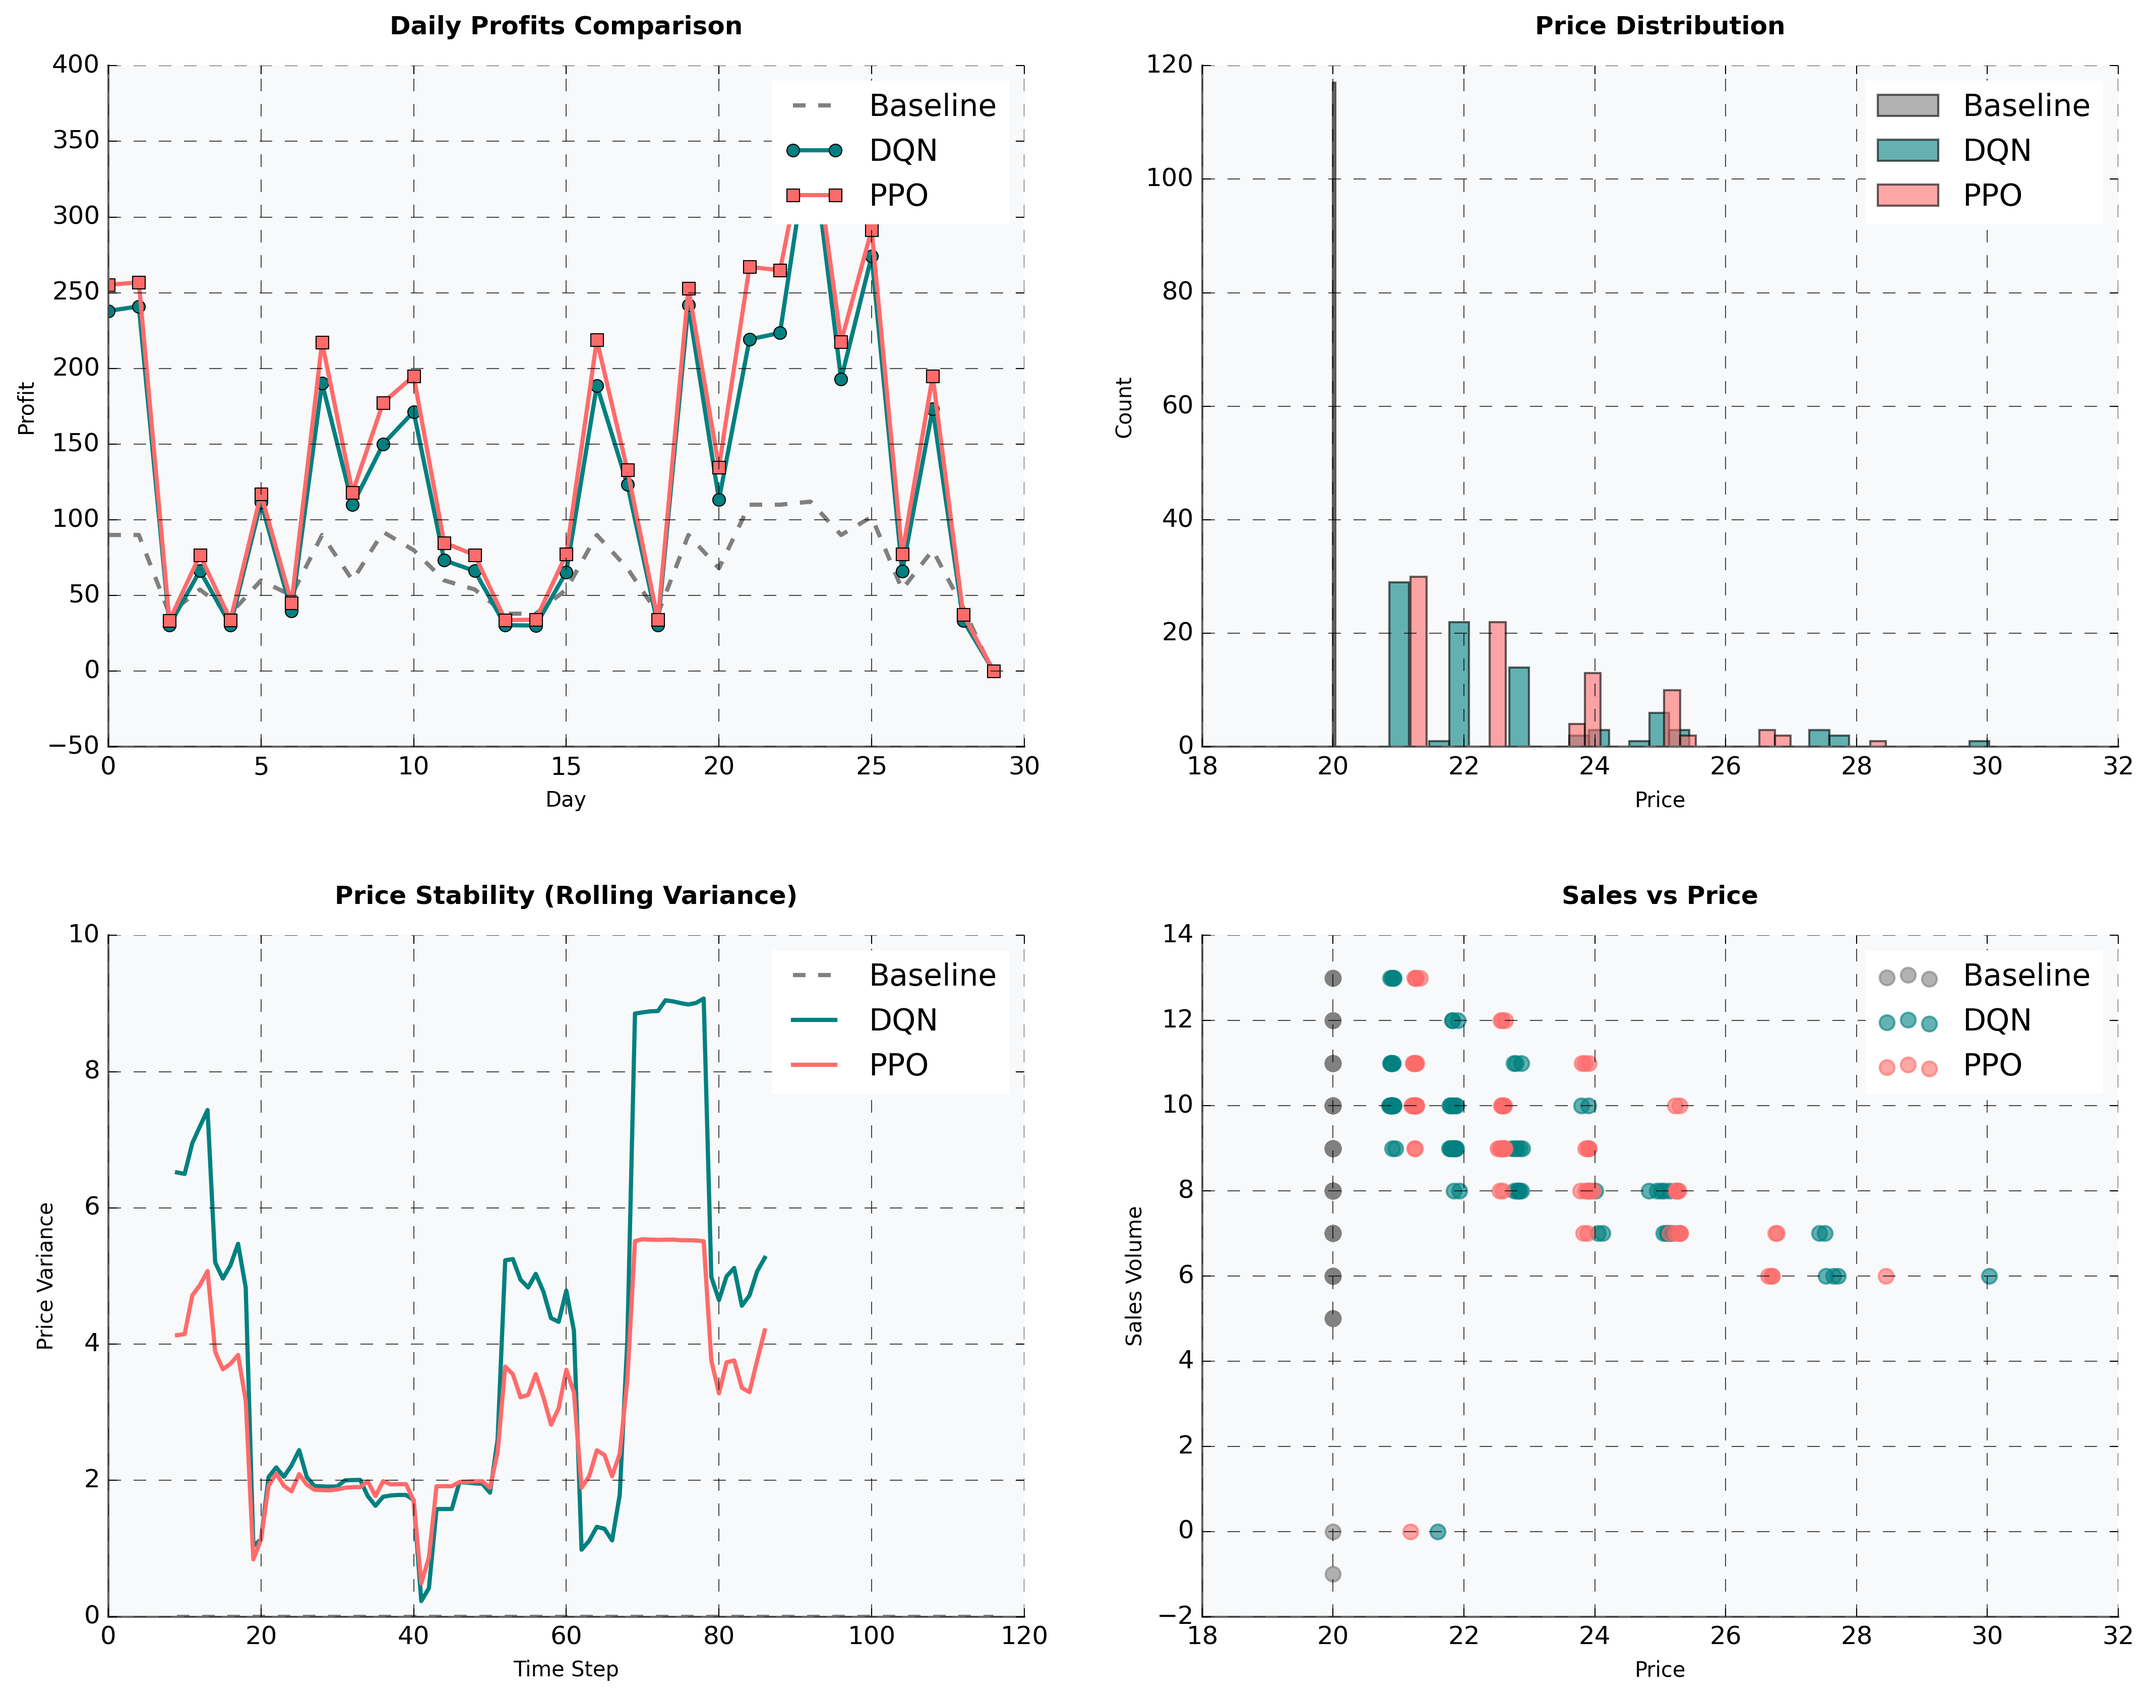
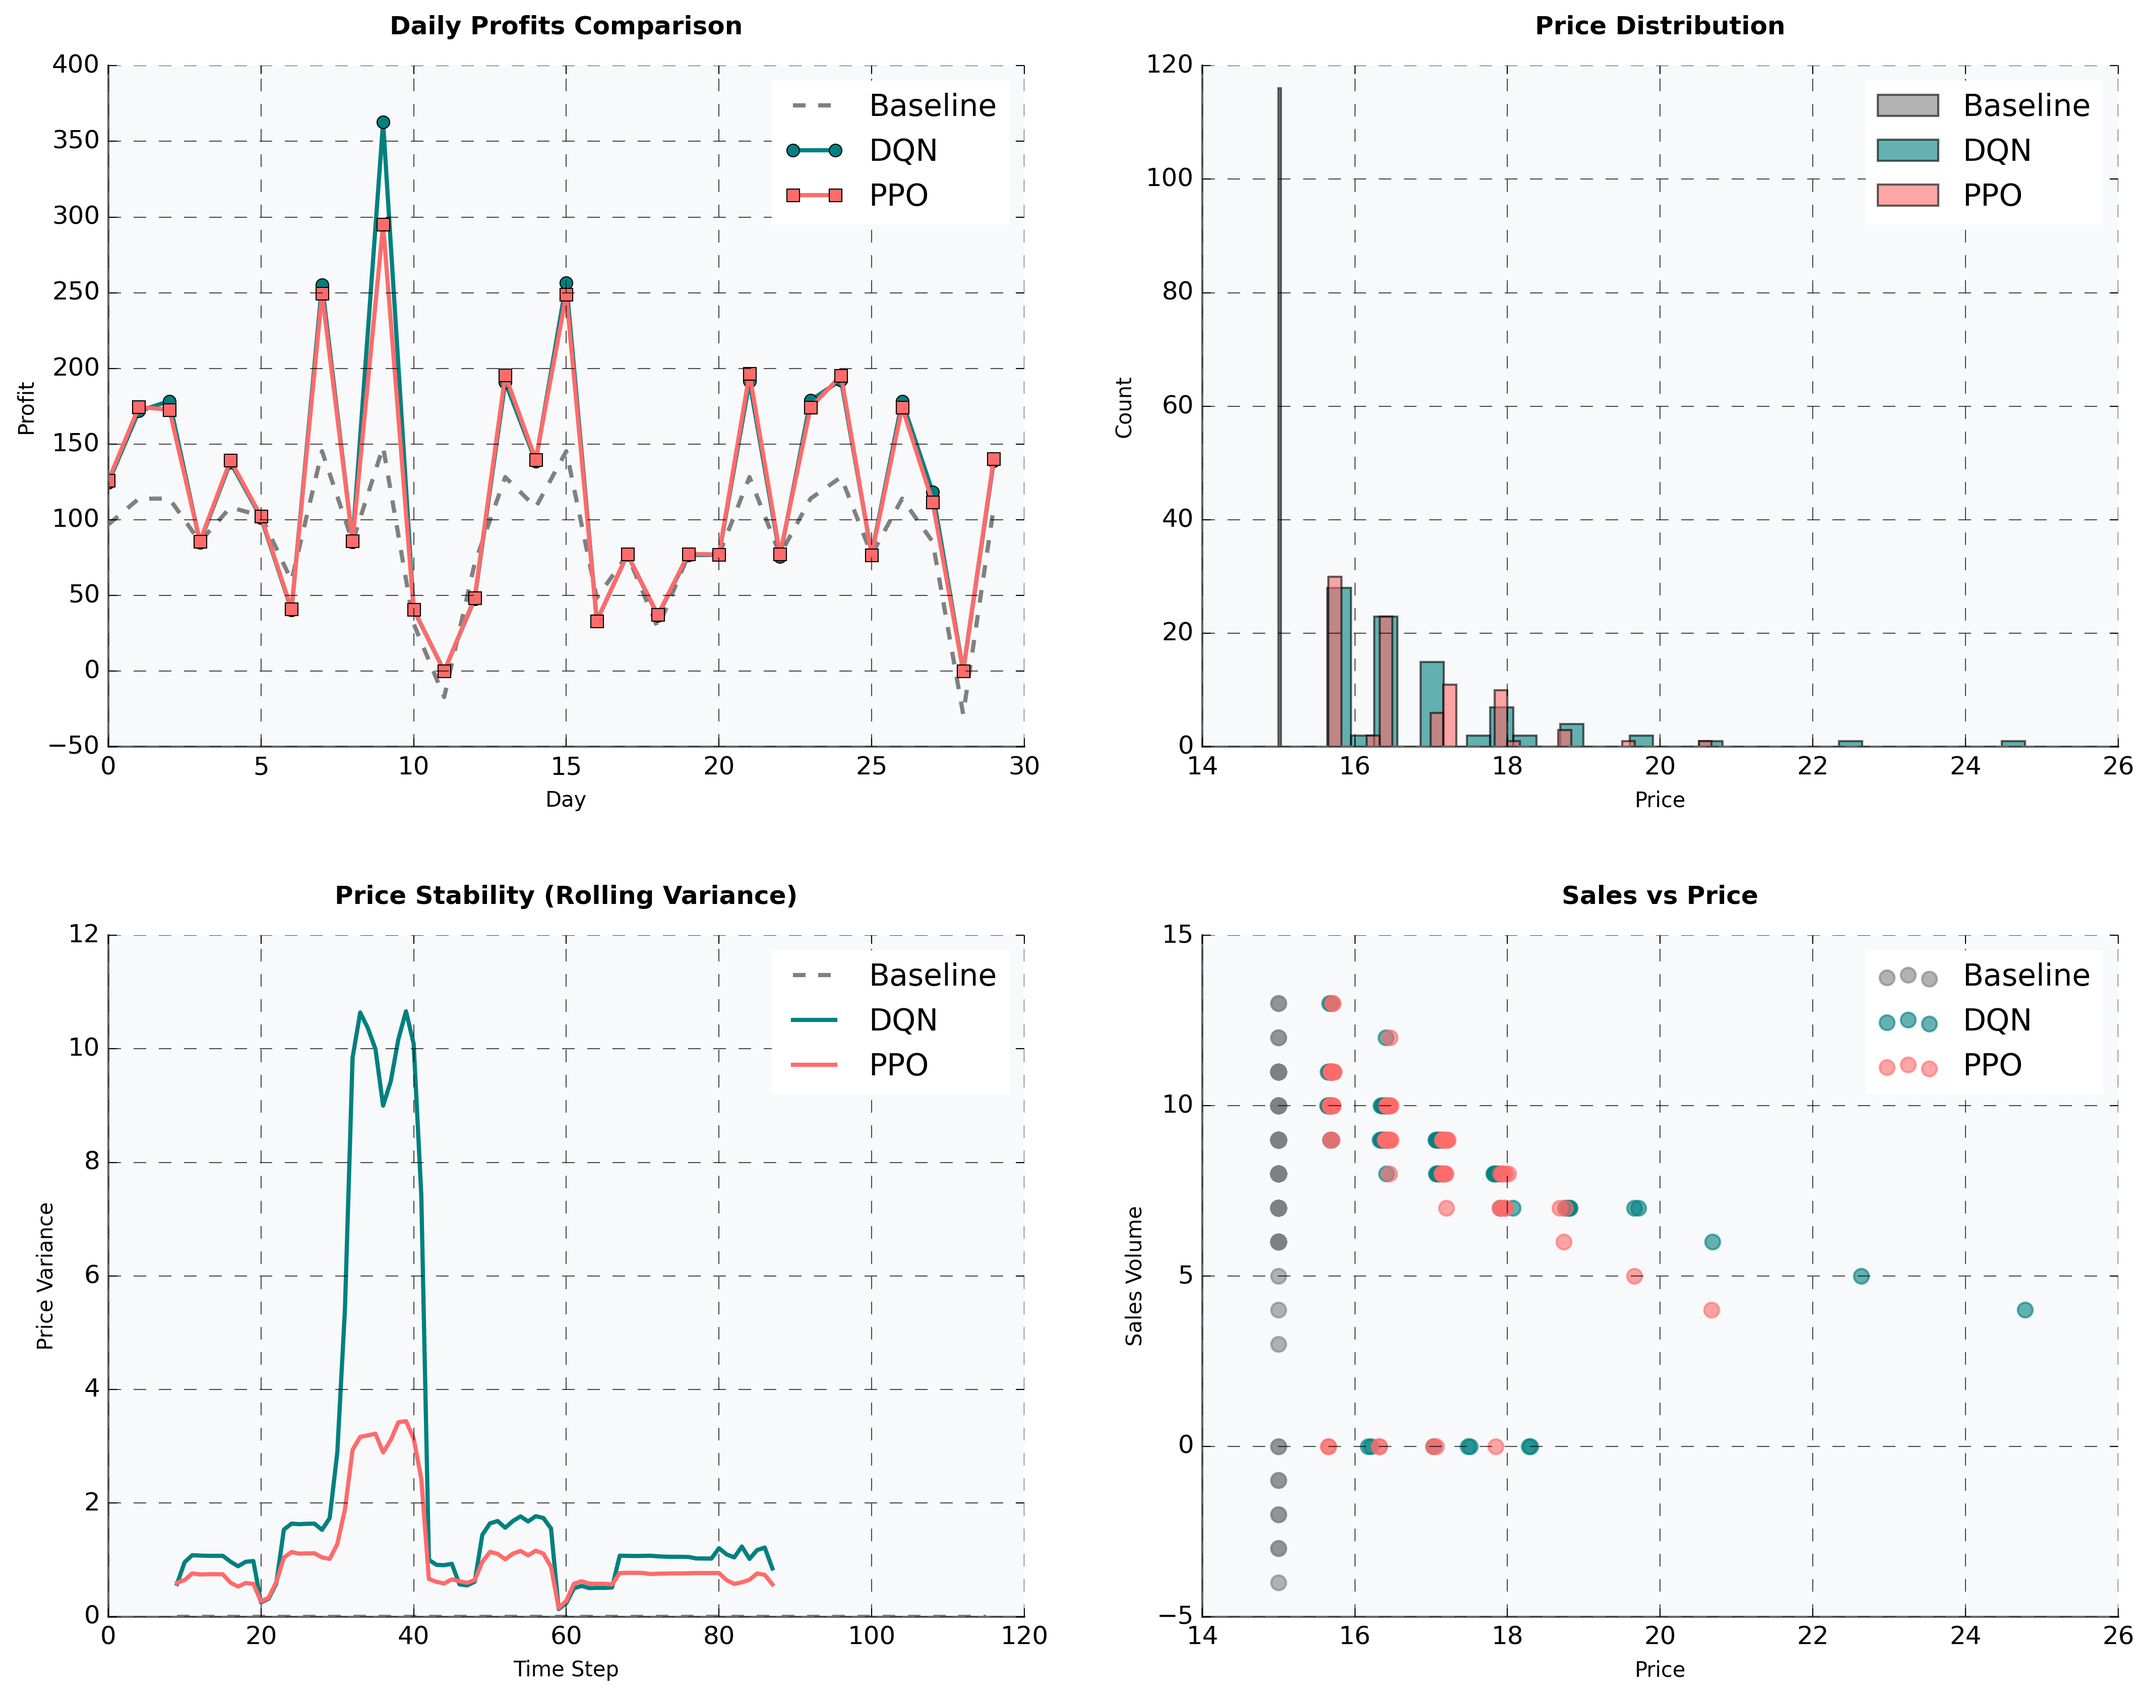
Generated full comparative analysis for all items across entire year

diff --git a/dynamic_pricing_agents/analysis/analysis.py b/dynamic_pricing_agents/analysis/analysis.py
@@ -4,6 +4,8 @@ import matplotlib.pyplot as plt
 from stable_baselines3 import DQN, PPO
 from datetime import datetime, timedelta
 
+from tqdm import tqdm
+
 from dynamic_pricing_agents.DQN_agent.dqn import DynamicPricingEnvDQN
 from dynamic_pricing_agents.PPO_agent.ppo import DynamicPricingEnv
 
@@ -309,11 +311,170 @@ def run_comparative_analysis(item_id, date_range, dqn_model_path, ppo_model_path
     return results
 
 
-if __name__ == "__main__":
+def run_full_comparative_analysis(
+        dqn_model_path,
+        ppo_model_path,
+        data_path,
+        item_prices_path,
+        output_path="full_analysis_results.csv",
+        start_date=None,
+        end_date=None
+):
+    """
+    Run comparative analysis for all items over a full year period.
+
+    Parameters:
+    -----------
+    dqn_model_path : str
+        Path to the trained DQN model
+    ppo_model_path : str
+        Path to the trained PPO model
+    data_path : str
+        Path to the full dataset CSV
+    item_prices_path : str
+        Path to the cleaned item prices CSV
+    output_path : str
+        Path where to save the results CSV
+    start_date : datetime, optional
+        Start date for analysis (defaults to Jan 1, 2022)
+    end_date : datetime, optional
+        End date for analysis (defaults to Dec 31, 2022)
+
+    Returns:
+    --------
+    tuple
+        (item_metrics_df, overall_metrics_dict)
+    """
+    # Set default dates if not provided
+    if start_date is None:
+        start_date = datetime(2022, 1, 1)
+    if end_date is None:
+        end_date = datetime(2022, 12, 31)
+
+    # Generate date range
+    date_range = [start_date + timedelta(days=x) for x in range((end_date - start_date).days + 1)]
+
+    # Load item information
+    item_info = pd.read_csv(item_prices_path)
+
+    # Initialize results storage
+    all_items_results = []
+    overall_metrics = {
+        'total_baseline_profit': 0,
+        'total_dqn_profit': 0,
+        'total_ppo_profit': 0,
+        'avg_baseline_price_variance': [],
+        'avg_dqn_price_variance': [],
+        'avg_ppo_price_variance': []
+    }
+
+    # Process each item
+    for _, item_row in tqdm(item_info.iterrows(), total=len(item_info), desc="Processing items"):
+        item_id = item_row['Item']
+        item_name = item_row['Item Name'] if 'Item Name' in item_row else f"Item {item_id}"
+
+        try:
+            # Calculate baseline performance
+            baseline_results = calculate_baseline_performance(
+                data_path,
+                item_info,
+                item_id,
+                date_range
+            )
+
+            # Run comparative analysis
+            results = run_comparative_analysis(
+                item_id=item_id,
+                date_range=date_range,
+                dqn_model_path=dqn_model_path,
+                ppo_model_path=ppo_model_path,
+                data_path=data_path
+            )
+
+            # Calculate metrics for this item
+            baseline_profit = sum(baseline_results['profits'])
+            dqn_profit = sum(results['dqn']['profits'])
+            ppo_profit = sum(results['ppo']['profits'])
+
+            baseline_price_var = np.var(baseline_results['prices'])
+            dqn_price_var = np.var(results['dqn']['prices'])
+            ppo_price_var = np.var(results['ppo']['prices'])
+
+            # Calculate profit increases
+            dqn_profit_increase = (
+                        (dqn_profit - baseline_profit) / baseline_profit * 100) if baseline_profit != 0 else 0
+            ppo_profit_increase = (
+                        (ppo_profit - baseline_profit) / baseline_profit * 100) if baseline_profit != 0 else 0
+
+            # Store results for this item
+            item_results = {
+                'item_id': item_id,
+                'item_name': item_name,
+                'baseline_profit': baseline_profit,
+                'dqn_profit': dqn_profit,
+                'ppo_profit': ppo_profit,
+                'dqn_profit_increase_pct': dqn_profit_increase,
+                'ppo_profit_increase_pct': ppo_profit_increase,
+                'baseline_price_variance': baseline_price_var,
+                'dqn_price_variance': dqn_price_var,
+                'ppo_price_variance': ppo_price_var
+            }
+
+            all_items_results.append(item_results)
+
+            # Update overall metrics
+            overall_metrics['total_baseline_profit'] += baseline_profit
+            overall_metrics['total_dqn_profit'] += dqn_profit
+            overall_metrics['total_ppo_profit'] += ppo_profit
+            overall_metrics['avg_baseline_price_variance'].append(baseline_price_var)
+            overall_metrics['avg_dqn_price_variance'].append(dqn_price_var)
+            overall_metrics['avg_ppo_price_variance'].append(ppo_price_var)
+
+        except Exception as e:
+            print(f"Error processing item {item_id}: {str(e)}")
+            continue
+
+    # Create DataFrame with all results
+    results_df = pd.DataFrame(all_items_results)
+
+    # Calculate overall averages
+    overall_metrics['avg_baseline_price_variance'] = np.mean(overall_metrics['avg_baseline_price_variance'])
+    overall_metrics['avg_dqn_price_variance'] = np.mean(overall_metrics['avg_dqn_price_variance'])
+    overall_metrics['avg_ppo_price_variance'] = np.mean(overall_metrics['avg_ppo_price_variance'])
+
+    # Add overall profit increases
+    overall_metrics['total_dqn_profit_increase_pct'] = (
+            (overall_metrics['total_dqn_profit'] - overall_metrics['total_baseline_profit']) /
+            overall_metrics['total_baseline_profit'] * 100
+    )
+    overall_metrics['total_ppo_profit_increase_pct'] = (
+            (overall_metrics['total_ppo_profit'] - overall_metrics['total_baseline_profit']) /
+            overall_metrics['total_baseline_profit'] * 100
+    )
+
+    # Save results to CSV
+    results_df.to_csv(output_path, index=False)
+
+    print("\nAnalysis Complete!")
+    print(f"\nOverall Metrics:")
+    print(f"Total Baseline Profit: ${overall_metrics['total_baseline_profit']:,.2f}")
+    print(
+        f"Total DQN Profit: ${overall_metrics['total_dqn_profit']:,.2f} ({overall_metrics['total_dqn_profit_increase_pct']:.2f}% increase)")
+    print(
+        f"Total PPO Profit: ${overall_metrics['total_ppo_profit']:,.2f} ({overall_metrics['total_ppo_profit_increase_pct']:.2f}% increase)")
+    print(f"\nAverage Price Variance:")
+    print(f"Baseline: {overall_metrics['avg_baseline_price_variance']:.2f}")
+    print(f"DQN: {overall_metrics['avg_dqn_price_variance']:.2f}")
+    print(f"PPO: {overall_metrics['avg_ppo_price_variance']:.2f}")
+
+    return results_df, overall_metrics
+
+
+def run_single_item_analysis(item_id):
     # Example date and item
-    item_id = 105  # Samosas
-    start_date = datetime(2022, 7, 1)
-    date_range = [start_date + timedelta(days=x) for x in range(30)]  # One month analysis
+    item_id = 106  # Samosas
+    start_date = datetime(2022, 1, 1)
+    date_range = [start_date + timedelta(days=x) for x in range(365)]  # One month analysis
 
     # Load item info for baseline calculation
     item_info = pd.read_csv('../data_cleaning/ItemPrices_cleaned.csv')
@@ -343,7 +504,6 @@ if __name__ == "__main__":
     print("\nCalculating performance metrics...")
     metrics_df = calculate_performance_metrics(results, baseline_results)
 
-    # Print summary statistics
     print("\nPerformance Metrics Summary:")
     print(f"\nTotal Profits:")
     print(f"Baseline: ${metrics_df.loc['total_profit', 'Baseline']:,.2f}")
@@ -358,5 +518,12 @@ if __name__ == "__main__":
     print(f"PPO vs DQN: ${metrics_df.loc['total_profit', 'PPO_vs_DQN_profit_diff']:,.2f} "
           f"({metrics_df.loc['total_profit', 'PPO_vs_DQN_%']:,.2f}%)")
 
-    # Save detailed metrics to CSV
     metrics_df.to_csv('performance_metrics.csv')
+
+if __name__ == "__main__":
+    results_df, overall_metrics = run_full_comparative_analysis(
+        dqn_model_path="DQN_agent/dqn_multi_item_pricing",
+        ppo_model_path="PPO_agent/ppo_multi_item_pricing",
+        data_path="../data_cleaning/Full_Dataset.csv",
+        item_prices_path="../data_cleaning/ItemPrices_cleaned.csv"
+    )
